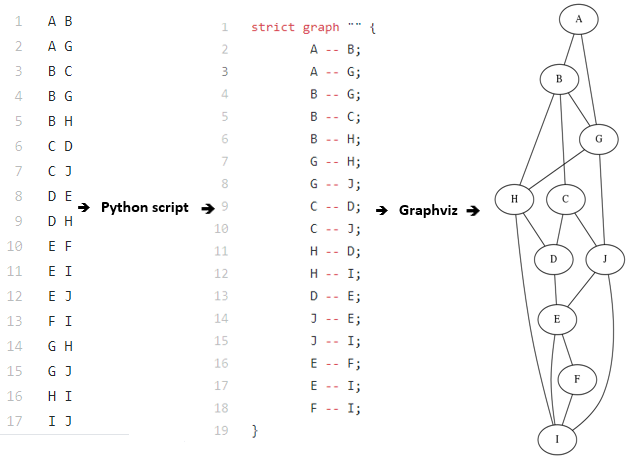
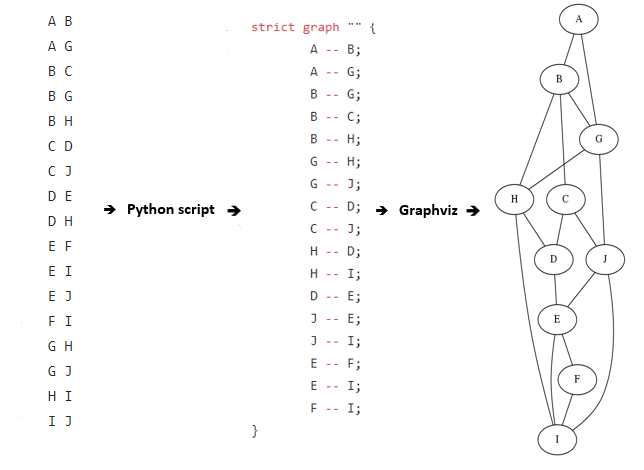
final ver 2

diff --git a/doc/hamilton_path_doc.tex b/doc/hamilton_path_doc.tex
@@ -102,7 +102,7 @@ Vstupní data jsou uloženy v souborech \textbf{.in}. Na každém řádku v tomt
 \includegraphics[]{./inputData.png}
 \centering
 \end{figure}
-\hspace{1,75cm}\textbf{\LARGE{.in}} \hspace{4cm} \textbf{\LARGE{.dot}} \hspace{3,8cm} \textbf{\LARGE{.png}}
+\hspace{0,55cm}\textbf{\LARGE{.in}} \hspace{6cm} \textbf{\LARGE{.dot}} \hspace{4,6cm} \textbf{\LARGE{.png}}
 
 
 
